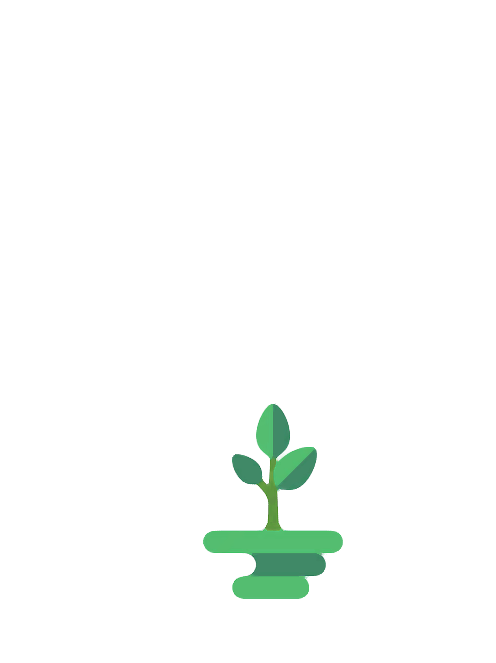
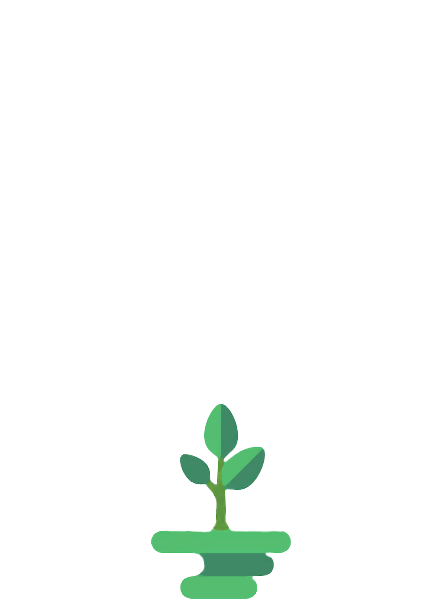
lol

Changed region(s): [[0.3221, 0.5931, 0.7027, 1.0]]

diff --git a/public/js/app.js b/public/js/app.js
@@ -47395,7 +47395,7 @@ if (false) {
 /* 43 */
 /***/ (function(module, exports) {
 
-// removed by extract-text-webpack-plugin
+throw new Error("Module build failed: ModuleBuildError: Module build failed: \r\n\twidth: ;\r\n     ^\r\n      Style declaration must contain a value\r\n      in C:\\laragon\\www\\tealjobs\\resources\\assets\\sass\\app.scss (line 315, column 7)\n    at runLoaders (C:\\laragon\\www\\tealjobs\\node_modules\\webpack\\lib\\NormalModule.js:195:19)\n    at C:\\laragon\\www\\tealjobs\\node_modules\\loader-runner\\lib\\LoaderRunner.js:364:11\n    at C:\\laragon\\www\\tealjobs\\node_modules\\loader-runner\\lib\\LoaderRunner.js:230:18\n    at context.callback (C:\\laragon\\www\\tealjobs\\node_modules\\loader-runner\\lib\\LoaderRunner.js:111:13)\n    at Object.asyncSassJobQueue.push [as callback] (C:\\laragon\\www\\tealjobs\\node_modules\\sass-loader\\lib\\loader.js:55:13)\n    at Object.done [as callback] (C:\\laragon\\www\\tealjobs\\node_modules\\neo-async\\async.js:7974:18)\n    at options.error (C:\\laragon\\www\\tealjobs\\node_modules\\node-sass\\lib\\index.js:294:32)");
 
 /***/ })
 /******/ ]);

diff --git a/public/css/app.css b/public/css/app.css
@@ -20432,18 +20432,44 @@ body {
           transform: scale(1.1);
 }
 
+#test-bg {
+  background: url(/images/test_bg.jpg?0123933cd74b01a0d54908397d480bed);
+  background-size: cover;
+  -webkit-filter: blur(8.5px);
+          filter: blur(8.5px);
+  position: absolute;
+  top: 0;
+  left: 0;
+  right: 0;
+  bottom: 0;
+  height: 150vh;
+}
+
 .completed {
   display: none;
 }
 
 .previous {
   position: absolute;
-  top: 452px;
+  top: 510px;
   left: calc(50% - 38px);
 }
 
 .test {
-  border: 2px solid black;
+  margin-top: 7vh;
+}
+
+.test h3 {
+  font-family: "Kaushan Script", cursive;
+  color: white;
+}
+
+#growing {
+  margin-bottom: 90px;
+}
+
+#growing img {
+  width: 100%;
 }
 
 #map {

diff --git a/resources/assets/sass/app.scss b/resources/assets/sass/app.scss
@@ -302,6 +302,18 @@ bottom: 0;
 
 // Page test
 
+#test-bg {
+    background: url('../img/tree/test_bg.jpg');
+	background-size: cover;
+	filter: blur(8.5px);
+	position: fixed !important;
+	top: 0;
+	left: -25px;
+	right: 0;
+	bottom: 0;
+	height: 90vh;
+}
+
 .completed {
 
 	display: none;
@@ -310,12 +322,26 @@ bottom: 0;
 .previous {
 
 	position: absolute;
-	top: 452px;
+	top: 510px;
 	left: calc(50% - 38px);
 }
 
 .test{
-	border: 2px solid black;
+
+	margin-top: 7vh;
+
+	h3 {
+		font-family: $font-title;
+		color: white;
+	}
+}
+
+#growing {
+	margin-bottom: 90px;
+
+	img {
+		width: 100%;
+	}
 }
 
 

diff --git a/app/Http/Controllers/HistorychartController.php b/app/Http/Controllers/HistorychartController.php
@@ -2,7 +2,6 @@
 
 namespace App\Http\Controllers;
 use Auth;
-use Khill\Lavacharts\Lavacharts;
 use App\Model\User;
 use Illuminate\Http\Request;
 
@@ -12,28 +11,9 @@ class HistorychartController extends Controller
 
     	$user = Auth::user();
 
-    	$lava = new Lavacharts;
 
-    	$reasons = \Lava::DataTable();
-
-        $reasons ->addStringColumn('Profil')
-               ->addNumberColumn('Points')
-               ->addStringColumn('Color');
+	return view('historychart.index');
 
 
-		$reasons->addRows([
-		    ['Travaillomane',  $user['travaillomane'], 'green'],
-		    ['Empathique',     $user['empathique'],    'orange'],
-		    ['Rebelle',        $user['rebelle'],       'red'],
-		    ['Rêveur',         $user['rêveur'],        'blue'],
-		    ['Persévérant',    $user['persévérant'],   'orange'],
-		    ['Promoteur',      $user['promoteur'],     'red']
-		]);
-
-		$donutchart = \Lava::DonutChart('IMBD', $reasons, [
-				'title' => 'Votre profil'
-	        ]);
-
-    	return view('historychart.index')->with('lava', $lava);
     }
 }

diff --git a/resources/views/test/index.blade.php b/resources/views/test/index.blade.php
@@ -4,6 +4,8 @@
 @section('content')
 
 	<div class="container-fluid" >
+		<div id="test-bg"></div>
+		<div class="fireflies">@include('fireflies.index')</div>
 
 		<div class="row justify-content-center text-center" id="test">
 

diff --git a/resources/views/historychart/index.blade.php b/resources/views/historychart/index.blade.php
@@ -15,7 +15,6 @@
 	</div>
 
 	<div id="chart-div"></div>
-	<?= Lava::render('DonutChart', 'IMBD', 'chart-div') ?>
 
 </div>
 
